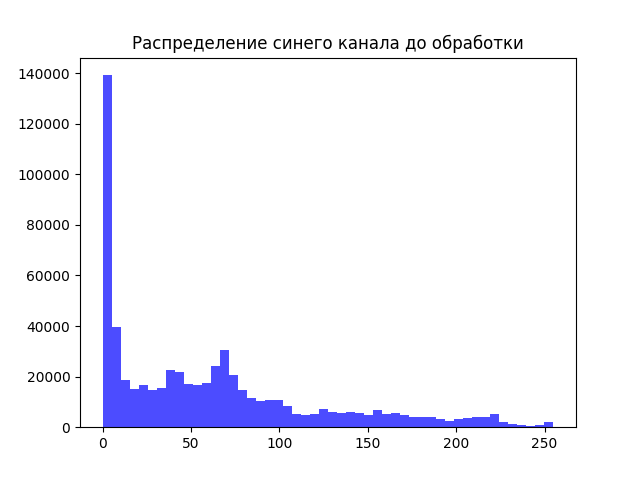
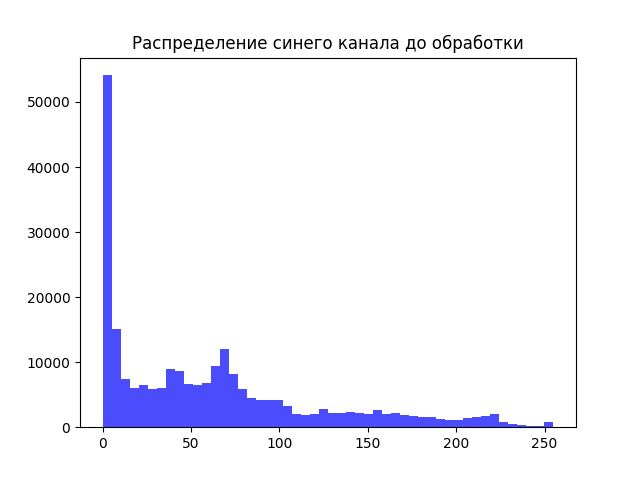
Добавил requests в зависимости

diff --git a/templates/img_processing.html b/templates/img_processing.html
@@ -3,53 +3,66 @@
 <head>
     <meta charset="UTF-8">
     <meta name="viewport" content="width=device-width, initial-scale=1.0">
-    <title>Результат</title>
-    <link rel="stylesheet" href="{{ url_for('static', filename='css/style.css') }}">
+    <title>Результат обработки</title>
+    <link rel="stylesheet" href="{{ url_for('static', filename='style.css') }}">
 </head>
 <body>
     <fieldset>
         <legend><h3>Результат обработки</h3></legend>
-        <p>Интенсивность: {{ intensity }}%</p>
 
-        <div class="images-container">
-            <div class="image-box">
+        <div style="text-align: center; margin-bottom: 20px;">
+            <h3 style="color: #333; margin: 0;">Интенсивность: {{ intensity }}%</h3>
+        </div>
+
+        <!-- Основные изображения -->
+        <div class="main-images">
+            <div class="main-box">
                 <h4>Исходное изображение</h4>
-                <img src="{{ url_for('static', filename=original_image) }}">
+                <img src="{{ url_for('static', filename=original_image) }}" alt="Исходное">
             </div>
-            <div class="image-box">
+            <div class="main-box">
                 <h4>Обработанное изображение</h4>
-                <img src="{{ url_for('static', filename=processed_image) }}">
+                <img src="{{ url_for('static', filename=processed_image) }}" alt="Обработанное">
             </div>
         </div>
 
-        <div class="histograms-container">
-            <div class="histogram-box">
+        <!-- Графики по цветам -->
+        <div class="color-row">
+            <div class="color-box">
                 <h4>Красный канал (до)</h4>
-                <img src="{{ url_for('static', filename=red_histogram) }}">
+                <img src="{{ url_for('static', filename=red_histogram) }}" alt="Красный до">
             </div>
-            <div class="histogram-box">
+            <div class="color-box">
                 <h4>Красный канал (после)</h4>
-                <img src="{{ url_for('static', filename=red_processed) }}">
-            </div>
-            <div class="histogram-box">
-                <h4>Зелёный канал (до)</h4>
-                <img src="{{ url_for('static', filename=green_histogram) }}">
-            </div>
-            <div class="histogram-box">
-                <h4>Зелёный канал (после)</h4>
-                <img src="{{ url_for('static', filename=green_processed) }}">
-            </div>
-            <div class="histogram-box">
-                <h4>Синий канал (до)</h4>
-                <img src="{{ url_for('static', filename=blue_histogram) }}">
-            </div>
-            <div class="histogram-box">
-                <h4>Синий канал (после)</h4>
-                <img src="{{ url_for('static', filename=blue_processed) }}">
+                <img src="{{ url_for('static', filename=red_processed) }}" alt="Красный после">
             </div>
         </div>
 
-        <a href="/">Обработать другое изображение</a>
+        <div class="color-row">
+            <div class="color-box">
+                <h4>Зелёный канал (до)</h4>
+                <img src="{{ url_for('static', filename=green_histogram) }}" alt="Зелёный до">
+            </div>
+            <div class="color-box">
+                <h4>Зелёный канал (после)</h4>
+                <img src="{{ url_for('static', filename=green_processed) }}" alt="Зелёный после">
+            </div>
+        </div>
+
+        <div class="color-row">
+            <div class="color-box">
+                <h4>Синий канал (до)</h4>
+                <img src="{{ url_for('static', filename=blue_histogram) }}" alt="Синий до">
+            </div>
+            <div class="color-box">
+                <h4>Синий канал (после)</h4>
+                <img src="{{ url_for('static', filename=blue_processed) }}" alt="Синий после">
+            </div>
+        </div>
+
+        <div style="text-align: center; margin-top: 30px;">
+            <a href="/" class="back-link">Обработать другое изображение</a>
+        </div>
     </fieldset>
 </body>
 </html>

diff --git a/static/style.css b/static/style.css
@@ -1,60 +1,164 @@
 body {
     font-family: Arial, sans-serif;
-    max-width: 1200px;
+    max-width: 1600px;
     margin: 0 auto;
     padding: 20px;
+    background: #f5f5f5;
 }
 
 fieldset {
-    border: 2px solid #ccc;
+    border: 2px solid #ddd;
     border-radius: 10px;
-    padding: 20px;
+    padding: 25px;
     margin-bottom: 20px;
+    background: white;
+    box-shadow: 0 2px 5px rgba(0,0,0,0.1);
 }
 
 legend {
     font-weight: bold;
-    padding: 0 10px;
+    padding: 0 15px;
+    font-size: 1.2em;
 }
 
-form {
+/* Стили формы */
+.form-group {
     margin: 20px 0;
 }
 
-input, button {
-    margin: 5px;
-    padding: 8px;
+.form-label {
+    display: block;
+    margin-bottom: 8px;
+    font-weight: bold;
+    color: #333;
 }
 
-img {
-    max-width: 300px;
-    margin: 10px;
-    border: 1px solid #ddd;
-    border-radius: 5px;
-}
-.images-container {
-    display: flex;
-    flex-wrap: wrap;
-    gap: 20px;
-    margin: 20px 0;
+.form-input {
+    width: 100%;
+    max-width: 400px;
+    padding: 12px;
+    border: 2px solid #ddd;
+    border-radius: 8px;
+    font-size: 16px;
+    transition: border-color 0.3s;
 }
 
-.image-box {
-    border: 1px solid #ddd;
-    padding: 10px;
-    border-radius: 5px;
+.form-input:focus {
+    border-color: #4CAF50;
+    outline: none;
+    box-shadow: 0 0 5px rgba(76, 175, 80, 0.3);
+}
+
+.submit-btn {
+    background: linear-gradient(135deg, #4CAF50, #45a049);
+    color: white;
+    padding: 14px 28px;
+    border: none;
+    border-radius: 8px;
+    cursor: pointer;
+    font-size: 16px;
+    font-weight: bold;
+    transition: transform 0.2s, box-shadow 0.2s;
+}
+
+.submit-btn:hover {
+    transform: translateY(-2px);
+    box-shadow: 0 4px 12px rgba(76, 175, 80, 0.3);
+}
+
+/* ОСНОВНЫЕ ИЗОБРАЖЕНИЯ */
+.main-images {
+    display: flex !important;
+    justify-content: center !important;
+    gap: 50px !important;
+    margin: 30px 0;
+}
+
+.main-box {
+    border: 1px solid #e0e0e0;
+    padding: 20px;
+    border-radius: 8px;
     text-align: center;
+    background: white;
+    box-shadow: 0 2px 4px rgba(0,0,0,0.05);
+    width: 500px !important;
 }
 
-.histograms-container {
-    display: grid;
-    grid-template-columns: repeat(2, 1fr);
-    gap: 15px;
-    margin: 20px 0;
+.main-box h4 {
+    margin: 0 0 20px 0;
+    font-size: 18px;
+    color: #333;
+    font-weight: 600;
 }
 
-.histogram-box {
-    border: 1px solid #eee;
-    padding: 10px;
+.main-box img {
+    width: 450px !important;
+    height: 350px !important;
+    object-fit: contain;
+}
+
+/* ГРАФИКИ ПО ЦВЕТАМ В СТРОКАХ */
+.color-row {
+    display: flex !important;
+    justify-content: center !important;
+    gap: 30px !important;
+    margin: 25px 0;
+}
+
+.color-box {
+    border: 1px solid #e0e0e0;
+    padding: 15px;
+    border-radius: 8px;
     text-align: center;
+    background: white;
+    box-shadow: 0 2px 4px rgba(0,0,0,0.05);
+    width: 400px !important;
+}
+
+.color-box h4 {
+    margin: 0 0 15px 0;
+    font-size: 16px;
+    color: #333;
+    font-weight: 600;
+}
+
+.color-box img {
+    width: 350px !important;
+    height: 250px !important;
+    object-fit: contain;
+}
+
+.back-link {
+    display: inline-block;
+    margin-top: 30px;
+    padding: 12px 24px;
+    background: linear-gradient(135deg, #007bff, #0056b3);
+    color: white;
+    text-decoration: none;
+    border-radius: 8px;
+    font-weight: bold;
+    transition: transform 0.2s;
+}
+
+.back-link:hover {
+    transform: translateY(-2px);
+    box-shadow: 0 4px 12px rgba(0, 123, 255, 0.3);
+}
+
+/* Адаптивность */
+@media (max-width: 768px) {
+    .main-images,
+    .color-row {
+        flex-direction: column;
+        align-items: center;
+    }
+
+    .main-box,
+    .color-box {
+        width: 350px !important;
+    }
+
+    body {
+        padding: 10px;
+    }
 }

diff --git a/templates/index.html b/templates/index.html
@@ -3,23 +3,34 @@
 <head>
     <meta charset="UTF-8">
     <meta name="viewport" content="width=device-width, initial-scale=1.0">
-    <link rel="stylesheet" href="{{ url_for('static', filename='style.css') }}">
     <title>Обработка изображений</title>
+    <link rel="stylesheet" href="{{ url_for('static', filename='style.css') }}">
 </head>
 <body>
-<fieldset>
-    <legend><h3>Поле ввода</h3></legend>
-    <form action="/img_processing" method="POST" id="inputf" enctype="multipart/form-data">
-        <input type="file" name="image" accept="image/*" required>
-        <label for="Intensity">Введите насколько хотите поменять интенсивность изображения:</label>
-        <input type = number id="Intensity" min="-100" max="100" name="intensity">
-        <button type="submit">Обработать изображение</button>
-        <br><br>
-        <div class="g-recaptcha" data-sitekey="6LcWHxYsAAAAAM8cl61hpDkESyDO8dgA5KtimCYX"></div>
-        <script src="https://www.google.com/recaptcha/api.js"></script>
+    <fieldset>
+        <legend><h3>Обработка изображений</h3></legend>
 
-    <br>
-    </form>
-</fieldset>
+        <form action="/img_processing" method="POST" id="inputf" enctype="multipart/form-data">
+            <div class="form-group">
+                <label class="form-label" for="image">Выберите изображение:</label>
+                <input class="form-input file-input" type="file" id="image" name="image" accept=".jpg,.jpeg,.png" required>
+            </div>
+
+            <div class="form-group">
+                <label class="form-label" for="Intensity">Интенсивность изменения (%):</label>
+                <input class="form-input" type="number" id="Intensity" name="intensity"
+                       min="-100" max="100" value="0" required>
+            </div>
+
+            <div class="form-group">
+                <div class="g-recaptcha" data-sitekey="6LcWHxYsAAAAAM8cl61hpDkESyDO8dgA5KtimCYX"></div>
+                <script src="https://www.google.com/recaptcha/api.js"></script>
+            </div>
+
+            <div class="form-group">
+                <button class="submit-btn" type="submit">Обработать изображение</button>
+            </div>
+        </form>
+    </fieldset>
 </body>
 </html>

diff --git a/app.py b/app.py
@@ -29,7 +29,7 @@ def img_processing():
     uploaded_file = request.files['image']
     image = Image.open(uploaded_file)
     image = image.convert("RGB")
-    max_size = 800
+    max_size = 500
     if max(image.size) > max_size:
         image.thumbnail((max_size, max_size))
     image.save("static/image.jpg")
